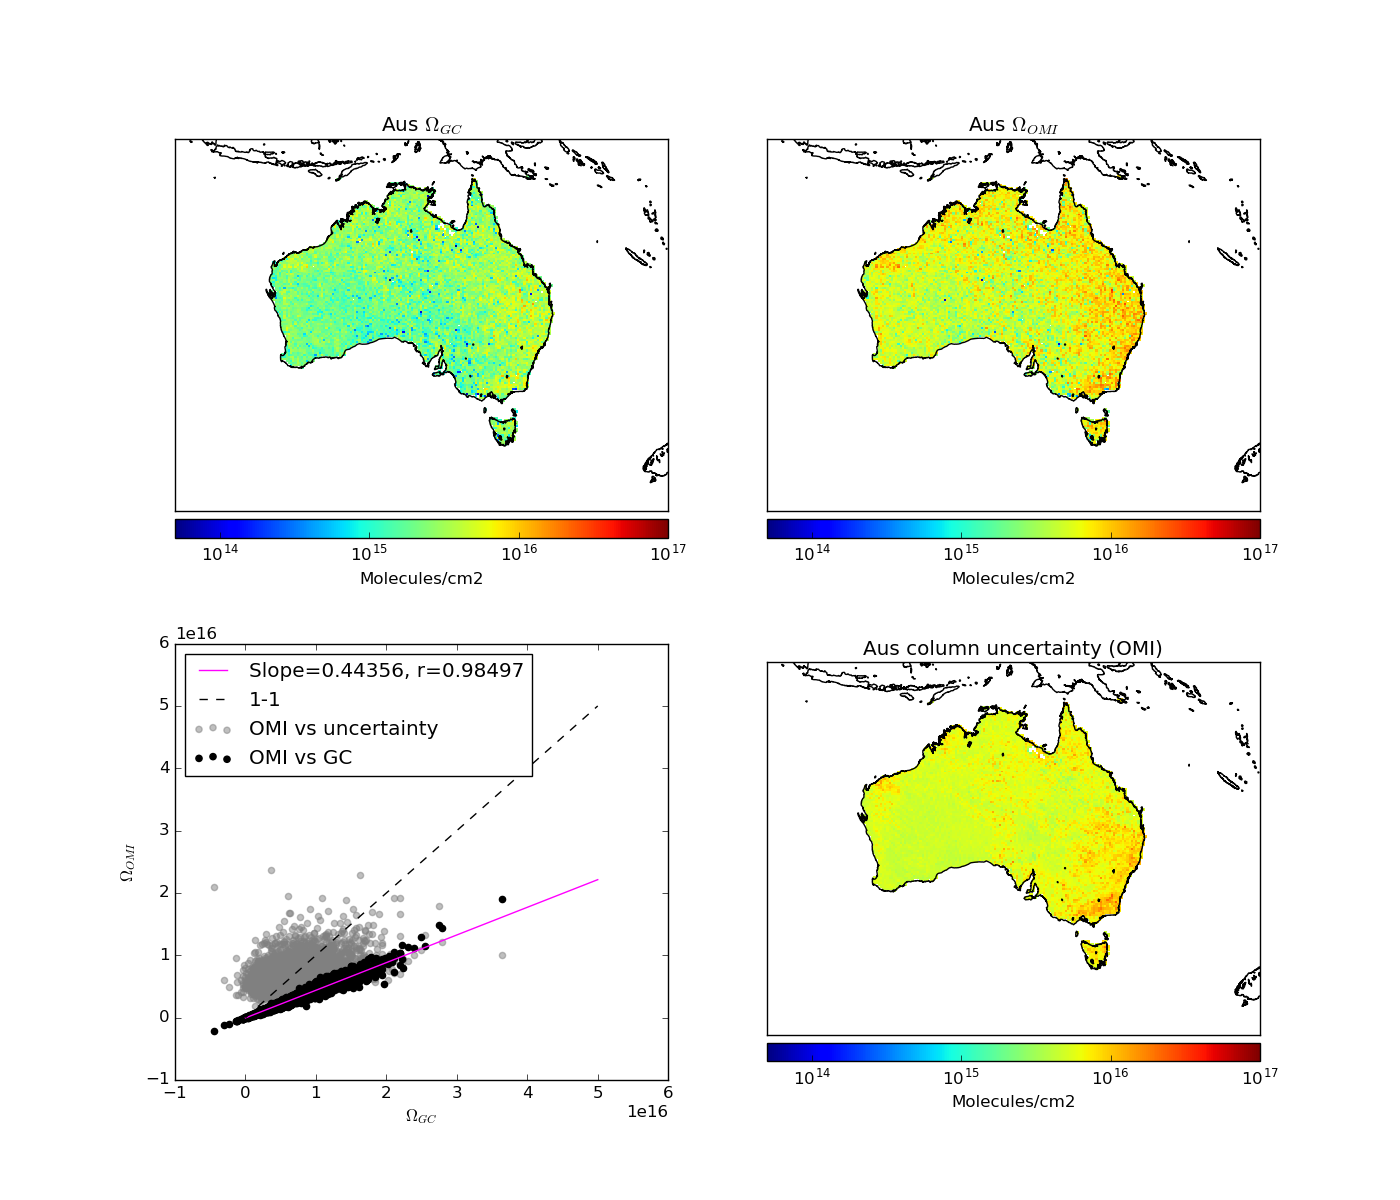
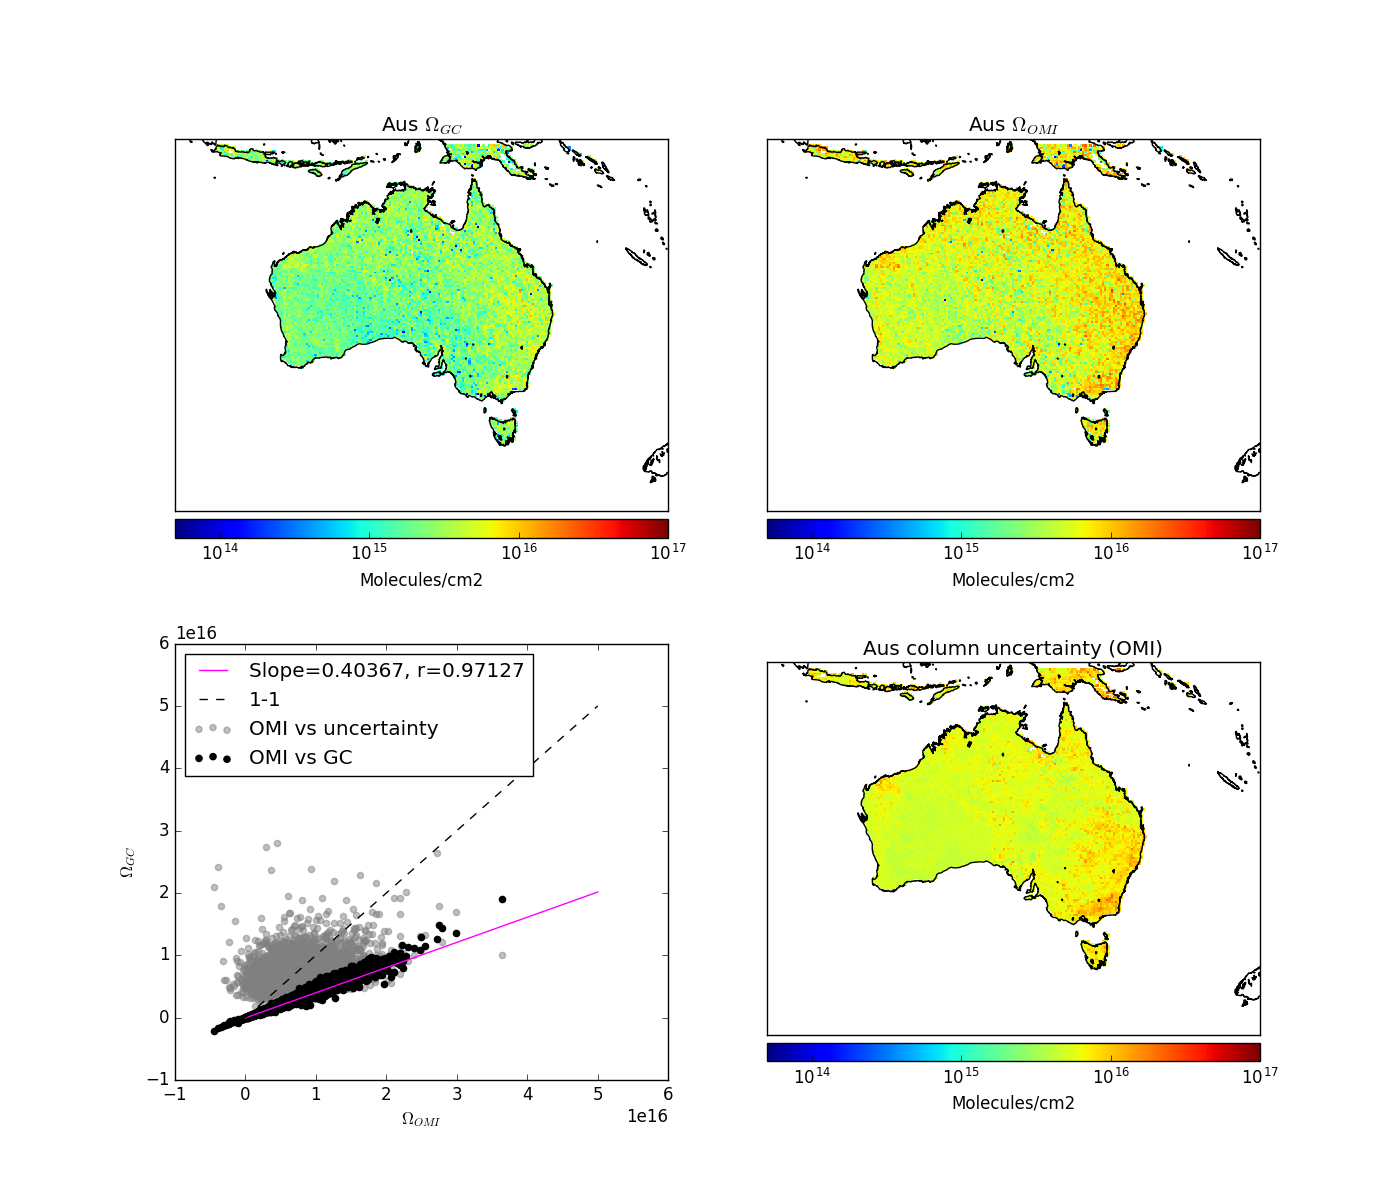
Aus land indexes are now easy to grab, using omhchorp class

diff --git a/tests.py b/tests.py
@@ -8,9 +8,10 @@ matplotlib.use('Agg') # don't actually display any plots, just create them
 # my file reading and writing module
 import fio
 import reprocess
-from omhchorp import omhchorp
+from omhchorp import omhchorp as omrp
 
 import numpy as np
+from numpy.ma import MaskedArray as ma
 from scipy.interpolate import interp1d
 from scipy import stats
 
@@ -233,45 +234,43 @@ def test_calculation_over_australia(day=datetime(2005,1,1), oneday=False):
     '''
     ymdstr=day.strftime('%Y%m%d')
     # read in omhchorp
-    omhchorp=fio.read_omhchorp(day,oneday=oneday)
-    AMF_GC=omhchorp['AMF_GC']
-    AMF_OMI=omhchorp['AMF_OMI']
-    VC_GC=omhchorp['VC_GC']
-    VC_OMI=omhchorp['VC_OMI']
-    lats=omhchorp['latitude']
-    lons=omhchorp['longitude']
-    unc = omhchorp['col_uncertainty_OMI']
-    mlons0,mlats0=np.meshgrid(lons,lats)
-    # read in pixel list? or omhcho swaths
-    # or not
+    om=omrp(day,oneday=oneday)
+    AMF_GC=om.AMF_GC
+    AMF_OMI=om.AMF_OMI
+    VC_GC=om.VC_GC
+    VC_OMI=om.VC_OMI
+    lats=om.latitude
+    lons=om.longitude
+    unc = om.col_uncertainty_OMI
+    mlons,mlats=np.meshgrid(lons,lats)
     
     # filter to just Australia rectangle [.,.,.,.]
-    lllat,lllon,urlat,urlon=-50,105,-10,155
-    lllati,urlati=158, 320
-    llloni,urloni=927, 1075
-    mlons,mlats=np.meshgrid(lons,lats)
-    mlons,mlats=mlons[lllati:urlati,llloni:urloni], mlats[lllati:urlati,llloni:urloni]
-    ausvcgc=VC_GC[lllati:urlati,llloni:urloni]
-    ausvcomi=VC_OMI[lllati:urlati,llloni:urloni]
-    ausamfgc=AMF_GC[lllati:urlati,llloni:urloni]
-    ausamfomi=AMF_OMI[lllati:urlati,llloni:urloni]
-    ausunc = unc[lllati:urlati,llloni:urloni]
+    ausinds=om.inds_aus(maskocean=True)
+    landinds=om.inds_subset(maskocean=True)
     
-    # Mask out the ocean
-    landvcgc  = maskoceans(mlons,mlats,ausvcgc,inlands=False)
-    landvcomi = maskoceans(mlons,mlats,ausvcomi,inlands=False)
-    landunc   = maskoceans(mlons,mlats,ausunc,inlands=False)
+    ausvcgc= ma(VC_GC,mask=~ausinds)
+    ausvcomi=ma(VC_OMI,mask=~ausinds)
+    ausamfgc=ma(AMF_GC,mask=~ausinds)
+    ausamfomi=ma(AMF_OMI,mask=~ausinds)
+    ausunc = ma(unc,mask=~ausinds)
     
-    print(("Mean AUS land VC_GC: %5.3e"%np.nanmean(landvcgc)))
-    print(("Mean AUS land VC_OMI: %5.3e"%np.nanmean(landvcomi)))
-    print(("Min AUS land VC_GC: %5.3e"%np.nanmin(landvcgc)))
-    print(("Min AUS land VC_OMI: %5.3e"%np.nanmin(landvcomi)))
+    
+    print(("Mean AUS land VC_GC: %5.3e"%np.nanmean(ausvcgc)))
+    print(("Mean AUS land VC_OMI: %5.3e"%np.nanmean(ausvcomi)))
+    print(("Min AUS land VC_GC: %5.3e"%np.nanmin(ausvcgc)))
+    print(("Min AUS land VC_OMI: %5.3e"%np.nanmin(ausvcomi)))
     
     # Plot the histogram of VC entries over australia
-    plt.hist(landvcgc)
-    plt.title('Australia land $\Omega_{GC}$')
+    land_data=np.transpose([VC_GC[landinds],VC_OMI[landinds]])
+    aus_data=np.transpose([VC_GC[ausinds],VC_OMI[ausinds]])
+    plt.hist(land_data, bins=np.logspace(13, 17, 30), color=['darkgrey','lightgrey'], label=['Global GC','Global OMI'])
+    plt.hist(aus_data, bins=np.logspace(13, 17, 30), color=['darkcyan','lightcyan'], label=['Aus GC','Aus OMI'])
+    plt.xscale("log")
+    plt.yscale('log',nonposy='clip')
+    plt.title('Gridded Land $\Omega_{HCHO}$')
     plt.ylabel('frequency'); plt.xlabel('molec cm$^{-2}$')
-    pname='pictures/AUS_landVC_GC_hist.png'
+    plt.legend(loc=0)
+    pname='pictures/AUS_landVC_hist.png'
     plt.savefig(pname)
     print("%s saved"%pname)
     plt.close()
@@ -280,31 +279,31 @@ def test_calculation_over_australia(day=datetime(2005,1,1), oneday=False):
     #
     # GC aus columns
     f=plt.figure(figsize=(14,12))
-    ax=plt.subplot(221)
+    plt.subplot(221)
     lllat=-50; urlat=-5; lllon=100; urlon=170
-    m,cs,cb = createmap(landvcgc,mlats,mlons,lllat=lllat, urlat=urlat, lllon=lllon, urlon=urlon)
+    m,cs,cb = createmap(ausvcgc,mlats,mlons,lllat=lllat, urlat=urlat, lllon=lllon, urlon=urlon)
     Ogc="$\Omega_{GC}$"
     Oomi="$\Omega_{OMI}$"
     plt.title("Aus "+Ogc)
     
     # omi aus columns
-    ax=plt.subplot(222)
-    m,cs,cb = createmap(landvcomi,mlats,mlons,lllat=lllat, urlat=urlat, lllon=lllon, urlon=urlon)
+    plt.subplot(222)
+    m,cs,cb = createmap(ausvcomi,mlats,mlons,lllat=lllat, urlat=urlat, lllon=lllon, urlon=urlon)
     plt.title("Aus "+Oomi)
     
     # omi uncertainty:
-    ax=plt.subplot(224)
-    m,cs,cb = createmap(landunc, mlats,mlons,lllat=lllat, urlat=urlat, lllon=lllon, urlon=urlon)
+    plt.subplot(224)
+    m,cs,cb = createmap(ausunc, mlats,mlons,lllat=lllat, urlat=urlat, lllon=lllon, urlon=urlon)
     plt.title("Aus column uncertainty (OMI)")
     
     # show AUS corellations with ocean masked out
     plt.subplot(223)
-    nans = np.isnan(landvcgc) + (np.isnan(landvcomi)) #+ landvcgc.mask
-    nanscheck=nans + landvcgc.mask
+    nans = np.isnan(ausvcgc) + (np.isnan(ausvcomi)) #+ ausvcgc.mask
+    nanscheck=nans + ausvcgc.mask
     print( (np.sum(nans), np.sum(nanscheck)) )
-    plt.scatter(landvcomi, landunc, color='grey',alpha=0.5, label="OMI vs uncertainty")
-    plt.scatter(landvcomi,landvcgc, color='black',label="OMI vs GC")
-    slope,intercept,r,p,sterr = stats.linregress(landvcomi[~nans],landvcgc[~nans])
+    plt.scatter(ausvcomi, ausunc, color='grey',alpha=0.5, label="OMI vs uncertainty")
+    plt.scatter(ausvcomi,ausvcgc, color='black',label="OMI vs GC")
+    slope,intercept,r,p,sterr = stats.linregress(ausvcomi[~nans],ausvcgc[~nans])
     X=np.array([1e10,5e16])
     plt.plot( X, slope*X+intercept,color='fuchsia',
             label='Slope=%.5f, r=%.5f'%(slope,r))
@@ -316,6 +315,7 @@ def test_calculation_over_australia(day=datetime(2005,1,1), oneday=False):
     f.savefig(pname)
     print("%s saved"%pname)
     plt.close()
+    
 
 def test_amf_calculation(scount=50):
     '''

diff --git a/omhchorp.py b/omhchorp.py
@@ -1,19 +1,20 @@
-import matplotlib
-matplotlib.use('Agg')
+#import matplotlib
+#matplotlib.use('Agg')
 
-import matplotlib.pyplot as plt
-from mpl_toolkits.basemap import Basemap
-from matplotlib.colors import LogNorm # lognormal color bar
+#import matplotlib.pyplot as plt
+from mpl_toolkits.basemap import maskoceans #Basemap, maskoceans
+#from matplotlib.colors import LogNorm # lognormal color bar
 
 import numpy as np
-from datetime import datetime
-from glob import glob
-from scipy.interpolate import RectBivariateSpline as RBS
-import h5py
+#from datetime import datetime
+#from glob import glob
+#from scipy.interpolate import RectBivariateSpline as RBS
+#import h5py
 
 # my file reading library
 import fio
 
+__DEBUG__=False
 
 class omhchorp:
     '''
@@ -48,24 +49,8 @@ class omhchorp:
         Output:
             Structure containing omhchorp dataset
         '''
-        fullkeylist=fio._omhchorp_keylist
-        # read in all the requested information:
-        if keylist is None:
-            keylist=fullkeylist
-        struct=dict.fromkeys(fullkeylist)
-        if filename is None:
-            fpath=fio.determine_filepath(date,oneday=oneday,latres=latres,lonres=lonres,reprocessed=True)
-        else:
-            fpath=filename
-        self.fpath=fpath
-        with h5py.File(fpath,'r') as in_f:
-            #print('reading from file '+fpath)
-            for key in keylist:
-                try:
-                    struct[key]=in_f[key].value
-                except KeyError as ke: # if there is no matching key then print an error and continue
-                    print("Key Error in %s"%fpath)
-                    print(ke)
+        struct=fio.read_omhchorp(date, oneday=oneday, latres=latres, lonres=lonres, keylist=keylist, filename=filename)
+        
         # date and dimensions
         self.date=date
         self.latitude=struct['latitude']
@@ -97,5 +82,47 @@ class omhchorp:
         mask = [self.fire_mask_16, self.fire_mask_8][use_8day_mask]
         for arr in [self.AMF_GC,self.AMF_OMI,self.AMF_GCz,self.SC,self.VC_GC,self.VC_OMI,self.VCC,self.col_uncertainty_OMI]:
             arr[mask]=np.NaN
+    
+    def inds_subset(self, lat0=None,lat1=None,lon0=None,lon1=None, maskocean=True, maskland=False):
+        ''' return indices of lat,lon arrays within input box '''
+        inds=~np.isnan(self.AMF_OMI) # only want non nans
+        mlons,mlats=np.meshgrid(self.longitude,self.latitude)
+        with np.errstate(invalid='ignore'): # ignore comparisons with NaNs
+            if lat0 is not None:
+                inds = inds * (mlats >= lat0)
+            if lon0 is not None:
+                inds = inds * (mlons >= lon0)
+            if lat1 is not None:
+                inds = inds * (mlats <= lat1)
+            if lon1 is not None:
+                inds = inds * (mlons <= lon1)
         
+        if maskocean or maskland:
+            oceanmask=maskoceans(mlons,mlats,self.AMF_OMI,inlands=False).mask
+            if __DEBUG__:
+                print("oceanmask:")
+                print((type(oceanmask),oceanmask.shape))
+                print( (inds * (~oceanmask)).shape )
+                print((np.sum(oceanmask),np.sum(~oceanmask))) # true for ocean squares!
+            # either mask land or ocean
+            inds *= [(~oceanmask),oceanmask][maskland]
+            
+        return inds
+    
+    def inds_aus(self, maskocean=True,maskland=False):
+        ''' return indices of Australia, with or without(default) ocean squares '''
+        return self.inds_subset(lat0=-57,lat1=-6,lon0=101,lon1=160,maskocean=maskocean,maskland=maskland)
+    
+        
+if __name__=='__main__':
+    
+    from datetime import datetime
+    
+    om=omhchorp(datetime(2005,1,1))
+    landinds=om.inds_subset(maskocean=True)
+    ausinds=om.inds_aus(maskocean=True)
+    
+    print("%d elements"%(720*1152))
+    print("%d land elements"%np.sum(landinds))
+    print("%d australia land elements"%np.sum(ausinds))
     
